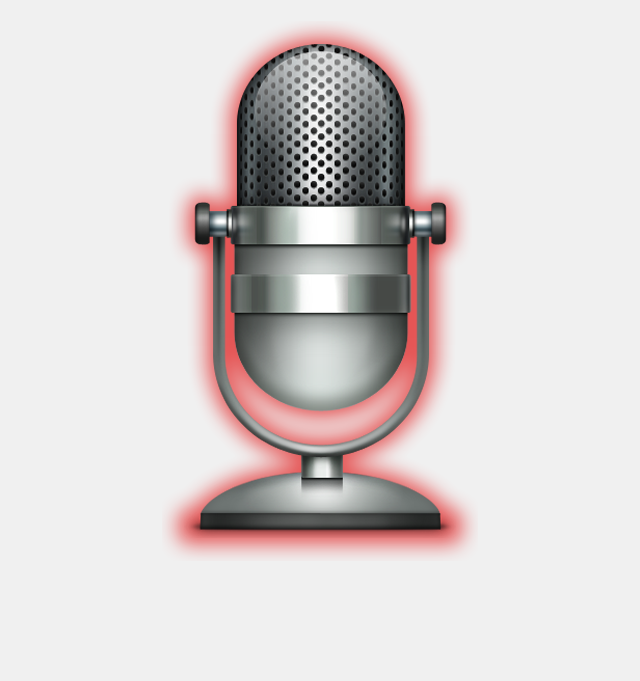
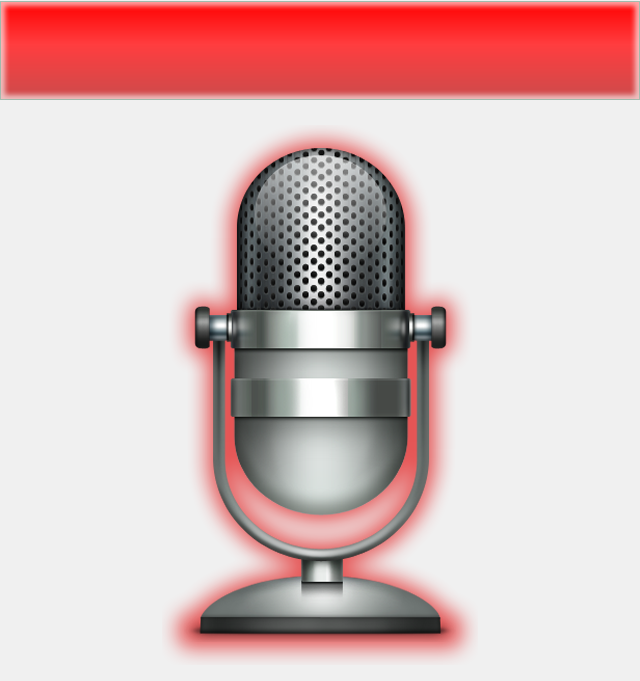
cleaned up UI, matched mic background with bottom bar background, shuffled the space so that the timer now shows up. Only UI elements are timer + mic + STOP button at top

diff --git a/src/ios/CDVCapture.m b/src/ios/CDVCapture.m
@@ -633,7 +633,7 @@
     }
     
     UIImage* microphone = [UIImage imageNamed:[self resolveImageResource:microphoneResource]];
-    UIView* microphoneView = [[UIView alloc] initWithFrame:CGRectMake(0, 0, viewRect.size.width, microphone.size.height)];
+    UIView* microphoneView = [[UIView alloc] initWithFrame:CGRectMake(0, 0, viewRect.size.width, viewRect.size.height)];
     [microphoneView setBackgroundColor:[UIColor colorWithPatternImage:microphone]];
     [microphoneView setUserInteractionEnabled:NO];
     [microphoneView setIsAccessibilityElement:NO];
@@ -658,23 +658,6 @@
     [self.recordingView setUserInteractionEnabled:NO];
     [self.recordingView setIsAccessibilityElement:NO];
     [tmp addSubview:self.recordingView];
-    
-    // add label
-    self.timerLabel = [[UILabel alloc] initWithFrame:CGRectMake(0, 0, viewRect.size.width, recordingBkg.size.height)];
-    // timerLabel.autoresizingMask = reSizeMask;
-    [self.timerLabel setBackgroundColor:[UIColor clearColor]];
-    [self.timerLabel setTextColor:[UIColor whiteColor]];
-#ifdef __IPHONE_6_0
-    [self.timerLabel setTextAlignment:NSTextAlignmentCenter];
-#else
-    // for iOS SDK < 6.0
-    [self.timerLabel setTextAlignment:UITextAlignmentCenter];
-#endif
-    [self.timerLabel setText:@"0:00"];
-    [self.timerLabel setAccessibilityHint:NSLocalizedString(@"recorded time in minutes and seconds", nil)];
-    self.timerLabel.accessibilityTraits |= UIAccessibilityTraitUpdatesFrequently;
-    self.timerLabel.accessibilityTraits &= ~UIAccessibilityTraitStaticText;
-    [tmp addSubview:self.timerLabel];
     
     // Add record button
     
@@ -701,6 +684,25 @@
     self.doneButton = [[UIBarButtonItem alloc] initWithBarButtonSystemItem:UIBarButtonSystemItemDone target:self action:@selector(dismissAudioView:)];
     [self.doneButton setStyle:UIBarButtonItemStyleDone];
     self.navigationItem.rightBarButtonItem = self.doneButton;
+    
+    //place timer on top
+    // add label
+    self.timerLabel = [[UILabel alloc] initWithFrame:CGRectMake(0, 0, viewRect.size.width, recordingBkg.size.height)];
+    // timerLabel.autoresizingMask = reSizeMask;
+    [self.timerLabel setBackgroundColor:[UIColor clearColor]];
+    [self.timerLabel setTextColor:[UIColor whiteColor]];
+#ifdef __IPHONE_6_0
+    [self.timerLabel setTextAlignment:NSTextAlignmentCenter];
+#else
+    // for iOS SDK < 6.0
+    [self.timerLabel setTextAlignment:UITextAlignmentCenter];
+#endif
+    [self.timerLabel setText:@"0:00"];
+    [self.timerLabel setAccessibilityHint:NSLocalizedString(@"recorded time in minutes and seconds", nil)];
+    self.timerLabel.accessibilityTraits |= UIAccessibilityTraitUpdatesFrequently;
+    self.timerLabel.accessibilityTraits &= ~UIAccessibilityTraitStaticText;
+    [tmp addSubview:self.timerLabel];
+    //end timer
     
     [self setView:tmp];
     
